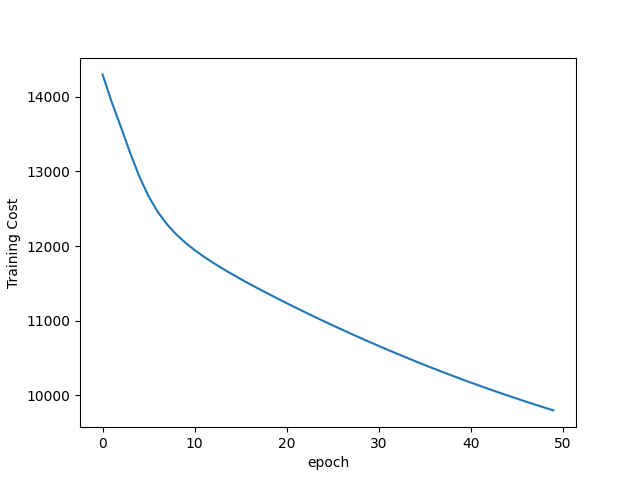
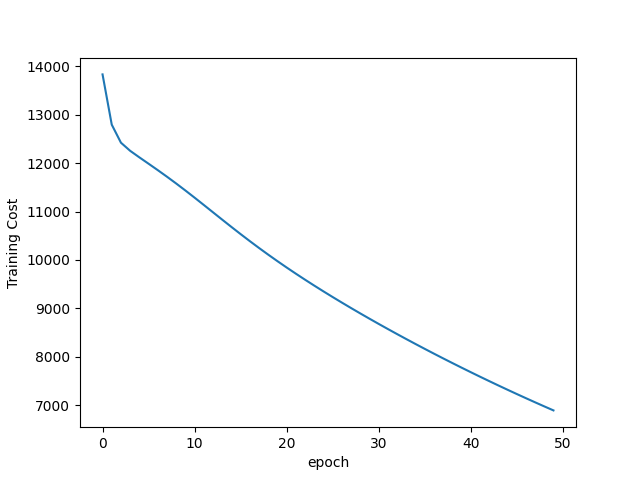
change nn

diff --git a/part_a/neural_network.py b/part_a/neural_network.py
@@ -104,6 +104,7 @@ def train(model, lr, lamb, train_data, zero_train_data, valid_data, num_epoch):
 
     train_loss_lst = []
     valid_acc_lst = []
+    valid_loss_lst = []
     best_model = None
     best_valid_acc = 0
 
@@ -126,18 +127,20 @@ def train(model, lr, lamb, train_data, zero_train_data, valid_data, num_epoch):
 
             train_loss += loss.item()
             # Q3(e): add the L2 regularization
-            train_loss += (lamb / 2) * (model.get_weight_norm())
+            if lamb is not None:
+                train_loss += (lamb / 2) * (model.get_weight_norm())
             optimizer.step()
 
-        valid_acc = evaluate(model, zero_train_data, valid_data)
+        valid_acc, valid_loss = evaluate(model, zero_train_data, valid_data)
         print("Epoch: {} \tTraining Cost: {:.6f}\t "
-              "Valid Acc: {}".format(epoch, train_loss, valid_acc))
+              "Valid Acc: {} \tValid Loss: {}".format(epoch, train_loss, valid_acc, valid_loss))
         train_loss_lst.append(train_loss)
         valid_acc_lst.append(valid_acc)
+        valid_loss_lst.append(valid_loss)
         if valid_acc > best_valid_acc:
             best_valid_acc = valid_acc
             best_model = model
-    return train_loss_lst, valid_acc_lst, best_model
+    return train_loss_lst, valid_acc_lst, valid_loss_lst, best_model
     #####################################################################
     #                       END OF YOUR CODE                            #
     #####################################################################
@@ -157,16 +160,18 @@ def evaluate(model, train_data, valid_data):
 
     total = 0
     correct = 0
+    sum_valid_loss = 0
 
     for i, u in enumerate(valid_data["user_id"]):
         inputs = Variable(train_data[u]).unsqueeze(0)
         output = model(inputs)
-
+        target = valid_data["is_correct"][i]
         guess = output[0][valid_data["question_id"][i]].item() >= 0.5
+        sum_valid_loss += (guess - target) ** 2
         if guess == valid_data["is_correct"][i]:
             correct += 1
         total += 1
-    return correct / float(total)
+    return correct / float(total), sum_valid_loss
 
 
 def main():
@@ -181,27 +186,27 @@ def main():
     k_vals = [10, 50, 100, 200, 500]
     lr = 0.01
     num_epoch = 50
-    lamb = 1
+    lamb = None
     max_valid_acc = 0
-    best_k = None
-    best_train_loss_lst = None
-    best_valid_acc_lst = None
-    final_best_model = None
+    best_k = 0
+    print("--------------Q3(c)----------------")
     for k in k_vals:
         print("---------" + str(k) + "---------")
         model = AutoEncoder(len(train_matrix[0]), k)
-        train_loss_lst, valid_acc_lst, best_model = train(model, lr, lamb,
-                                                          train_matrix,
-                                                          zero_train_matrix,
-                                                          valid_data, num_epoch)
-        valid_acc = evaluate(model, zero_train_matrix, valid_data)
+        train_loss_lst, valid_acc_lst, \
+        valid_loss_lst, best_model = train(model, lr, lamb, train_matrix,
+                                           zero_train_matrix, valid_data, num_epoch)
+        valid_acc, valid_loss = evaluate(model, zero_train_matrix, valid_data)
         if valid_acc > max_valid_acc:
             max_valid_acc = valid_acc
             best_k = k
-            best_train_loss_lst = train_loss_lst
-            best_valid_acc_lst = valid_acc_lst
-            final_best_model = best_model
 
+    print("--------------Q3(d)----------------")
+    model = AutoEncoder(len(train_matrix[0]), best_k)
+    best_train_loss_lst, best_valid_acc_lst, \
+    best_valid_loss_lst, final_best_model = train(model, lr, lamb, train_matrix,
+                                                  zero_train_matrix, valid_data,
+                                                  num_epoch)
     print("best k: {}".format(best_k))
     plt.xlabel("epoch")
     plt.ylabel("Training Cost")
@@ -215,9 +220,18 @@ def main():
     plt.plot(epoch, best_valid_acc_lst, label="Valid Acc")
     plt.savefig("Valid_Acc.png")
     plt.clf()
-    test_acc = evaluate(final_best_model, zero_train_matrix, test_data)
+
+    plt.xlabel("epoch")
+    plt.ylabel("Valid Loss")
+    plt.plot(epoch, best_valid_loss_lst, label="Valid Loss")
+    plt.savefig("Valid_Loss.png")
+    plt.clf()
+
+    test_acc, test_loss = evaluate(final_best_model, zero_train_matrix, test_data)
     print("final test accuracy: {}".format(test_acc))
 
+    print("--------------Q3(e)----------------")
+    max_valid_acc = 0
     lamb_lst = [0.001, 0.01, 0.1, 1]
     best_lamb = None
     final_best_model = None
@@ -225,18 +239,18 @@ def main():
     for lamb in lamb_lst:
         print("---------" + str(lamb) + "---------")
         model = AutoEncoder(len(train_matrix[0]), k)
-        train_loss_lst, valid_acc_lst, best_model = train(model, lr, lamb,
-                                                          train_matrix,
-                                                          zero_train_matrix,
-                                                          valid_data, num_epoch)
-        valid_acc = evaluate(model, zero_train_matrix, valid_data)
-        print(valid_acc)
+        train_loss_lst, valid_acc_lst, \
+        best_valid_loss_lst, best_model = train(model, lr, lamb, train_matrix,
+                                                zero_train_matrix, valid_data,
+                                                num_epoch)
+        valid_acc, valid_loss = evaluate(model, zero_train_matrix, valid_data)
         if valid_acc > max_valid_acc:
             max_valid_acc = valid_acc
             best_lamb = lamb
             final_best_model = best_model
-    print(best_lamb)
-    test_acc = evaluate(final_best_model, zero_train_matrix, test_data)
+    print("chosen lambda: {}".format(best_lamb))
+    print("final validation accuracy: {}".format(max_valid_acc))
+    test_acc, test_loss = evaluate(final_best_model, zero_train_matrix, test_data)
     print("final test accuracy: {}".format(test_acc))
     #####################################################################
     #                       END OF YOUR CODE                            #
